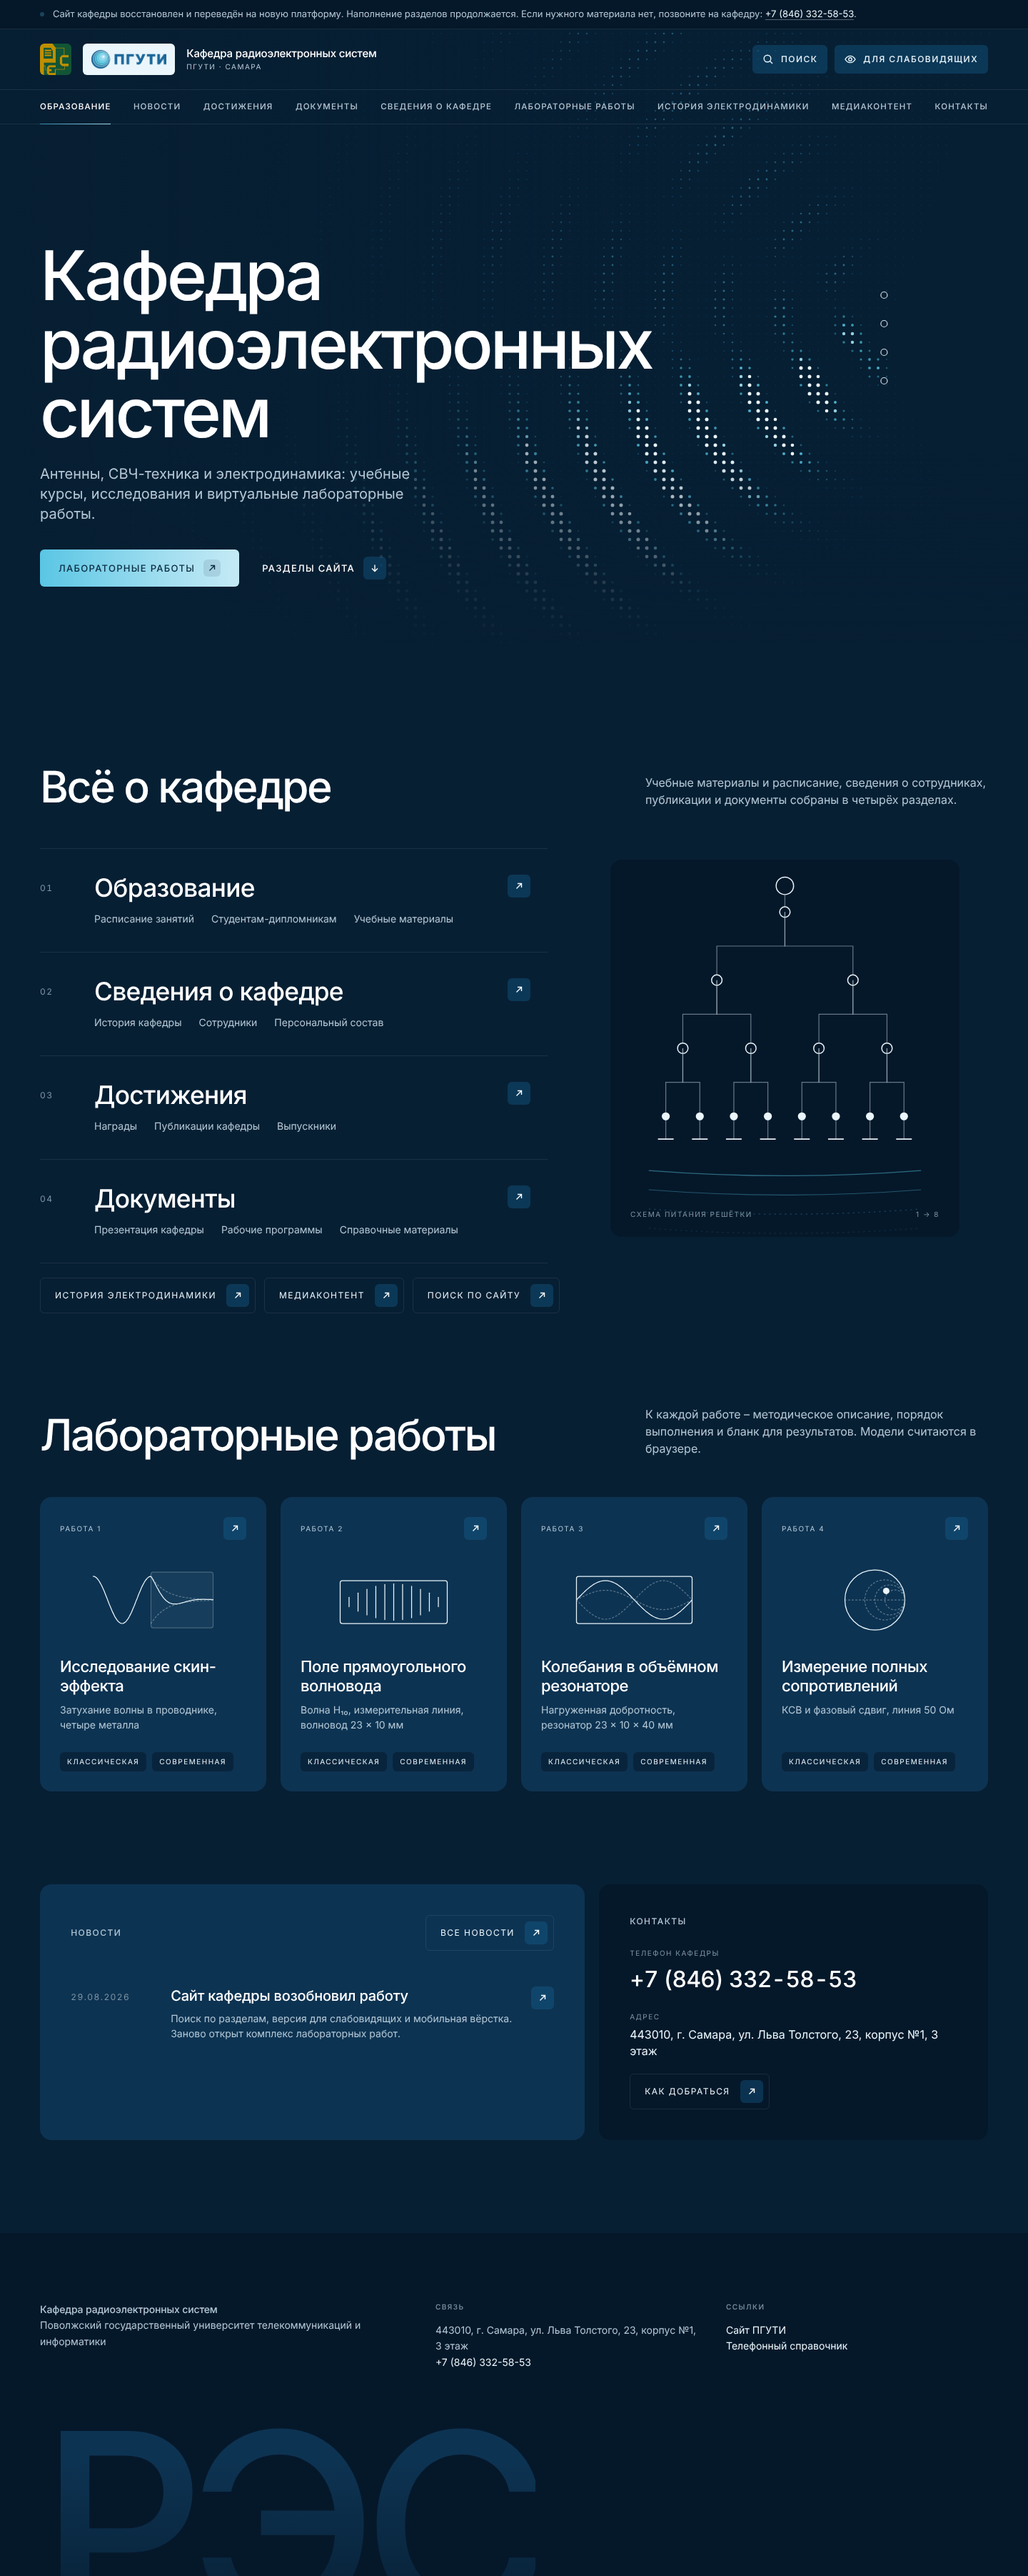
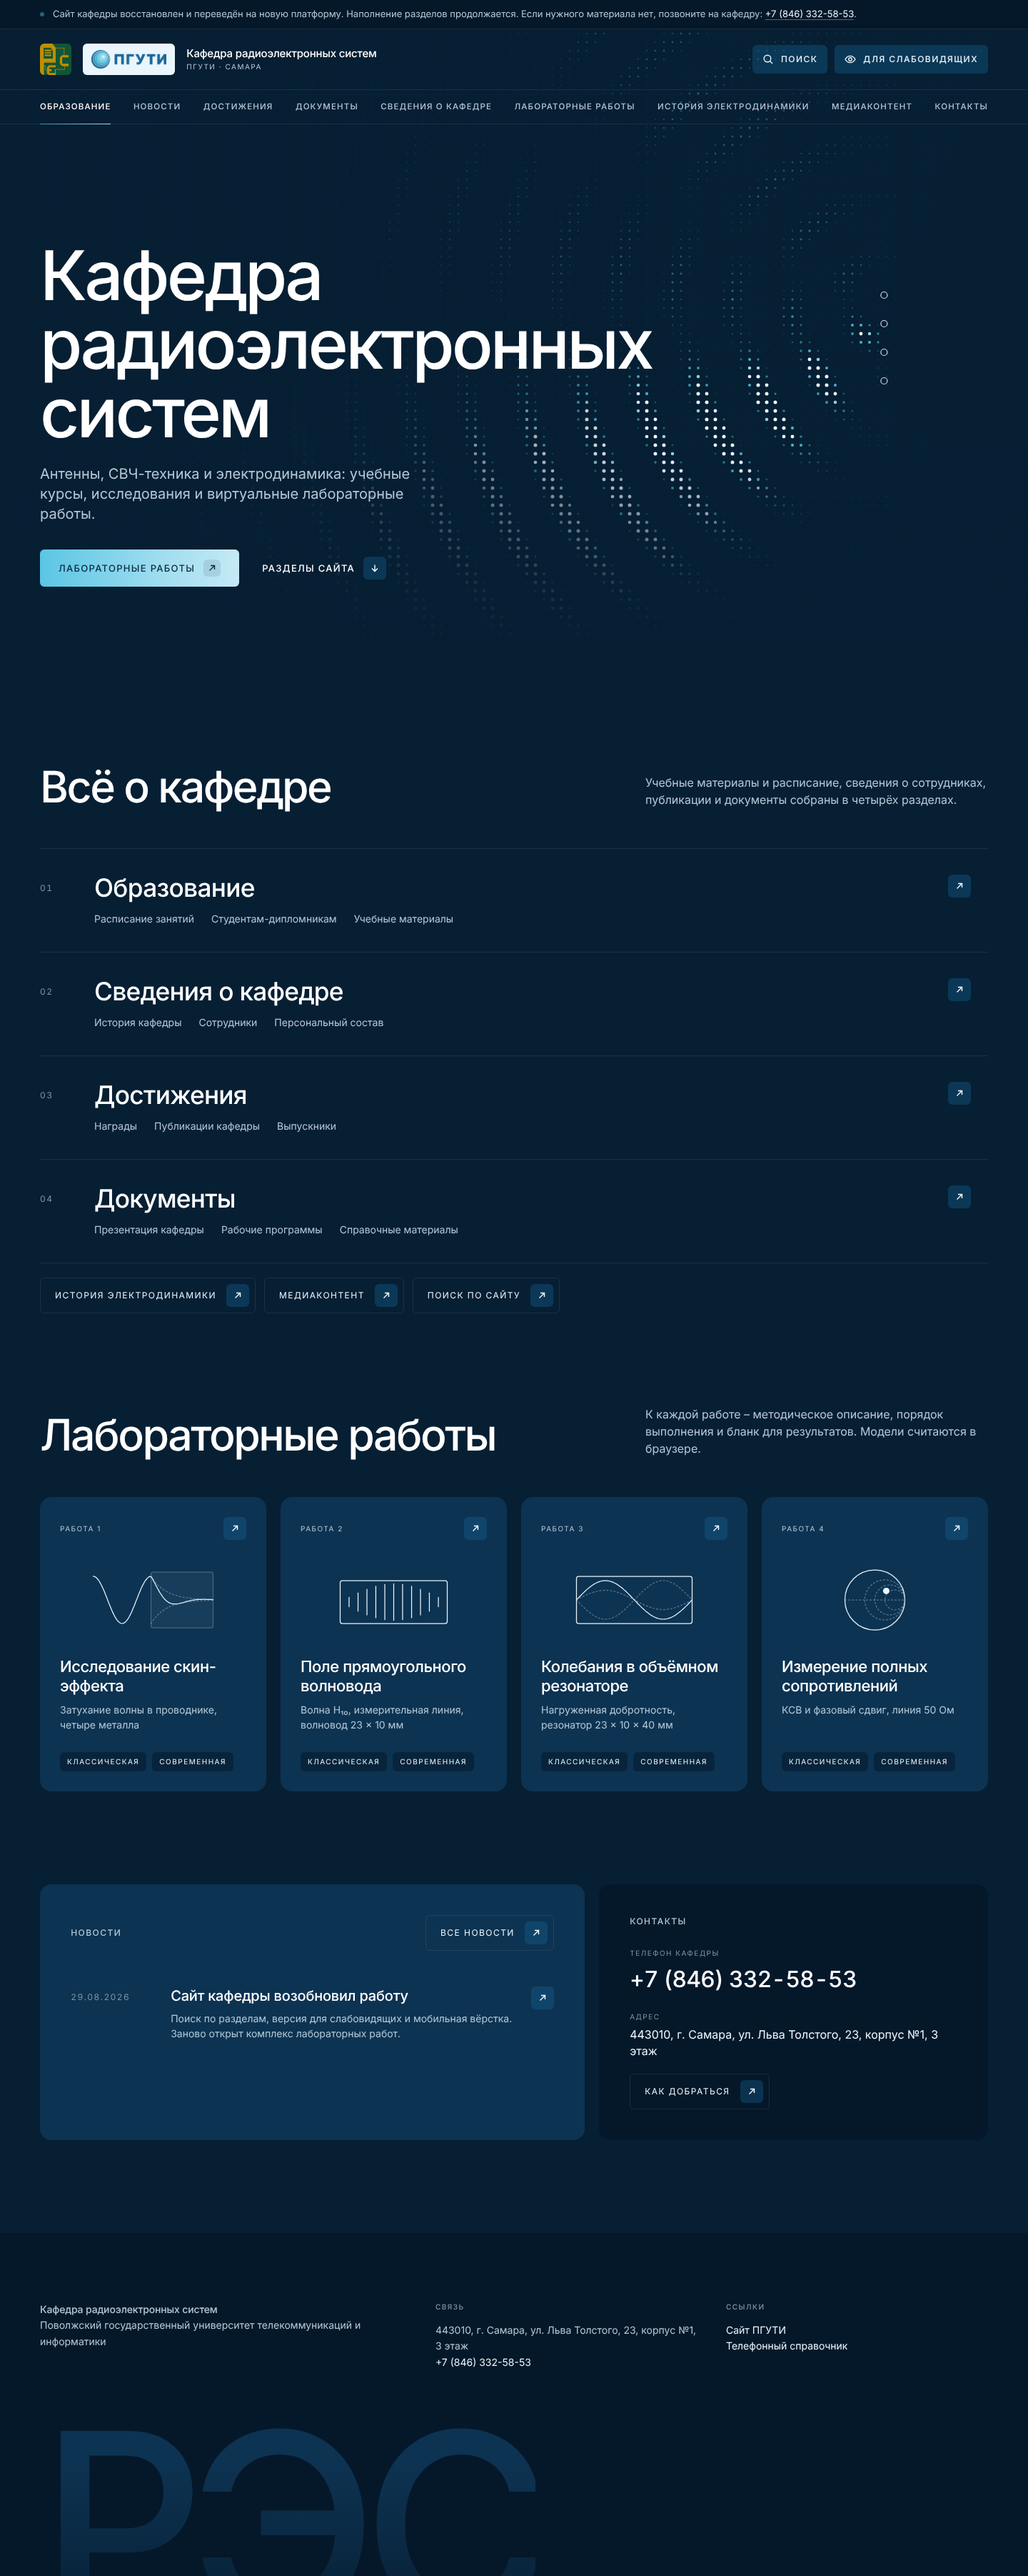
Макет главной: убрана схема питания решётки
Claude-Session: https://claude.ai/code/session_01Y5a5f6xMeDjfuauD7HAxLL

diff --git a/design/maket-glavnoj.html b/design/maket-glavnoj.html
@@ -155,8 +155,7 @@ p { margin: 0; }
 .section__lead { max-width: 480px; justify-self: end; color: var(--silver); font-size: 16px; line-height: 1.5; }
 
 
-/* разделы: строки + схема */
-.explore { display: grid; grid-template-columns: minmax(0, 1.25fr) minmax(0, 1fr); gap: 48px; align-items: start; }
+/* разделы */
 .rows { list-style: none; margin: 0; padding: 0; border-top: 1px solid var(--line); }
 .row { border-bottom: 1px solid var(--line); }
 .row a {
@@ -170,10 +169,6 @@ p { margin: 0; }
 .row__title { font-size: clamp(24px, 1.2vw + 18px, 36px); line-height: 1.1; letter-spacing: -.02em; color: var(--white); font-weight: 500; }
 .row__sub { margin-top: 12px; display: flex; flex-wrap: wrap; gap: 6px 24px; font-size: 14px; color: var(--silver); }
 
-.schema { position: sticky; top: 32px; aspect-ratio: 1 / 1.08; border-radius: var(--r-card); background: var(--deep); overflow: hidden; }
-.schema svg { width: 100%; height: 100%; }
-.schema__cap { position: absolute; left: 28px; bottom: 24px; right: 28px; display: flex; justify-content: space-between; gap: 12px;
-  font-size: 10px; letter-spacing: .15em; text-transform: uppercase; color: var(--slate); }
 
 /* лабораторные работы */
 .labs { display: grid; grid-template-columns: repeat(4, minmax(0, 1fr)); gap: 20px; list-style: none; margin: 0; padding: 0; }
@@ -254,9 +249,8 @@ p { margin: 0; }
   .tool--a11y span { display: none; }
   .tool--a11y { width: 40px; padding: 0; justify-content: center; }
   .brand__psuti { display: none; }
-  .explore, .split, .section__head { grid-template-columns: 1fr; }
+  .split, .section__head { grid-template-columns: 1fr; }
   .section__lead { justify-self: start; }
-  .schema { position: relative; top: 0; aspect-ratio: 16 / 11; }
 
   .footer__grid { grid-template-columns: 1fr 1fr; }
   .footer__grid > :first-child { grid-column: 1 / -1; }
@@ -365,8 +359,7 @@ p { margin: 0; }
       <p class="section__lead">Учебные материалы и расписание, сведения о сотрудниках, публикации и документы — в четырёх основных разделах.</p>
     </div>
 
-    <div class="explore">
-      <ul class="rows">
+          <ul class="rows">
         <li class="row"><a href="#">
           <span class="row__n">01</span>
           <span><span class="row__title">Образование</span>
@@ -392,12 +385,6 @@ p { margin: 0; }
           <span class="arrow" aria-hidden="true"><svg viewBox="0 0 14 14" fill="none" stroke="currentColor" stroke-width="1.4"><path d="M3.5 10.5 10.5 3.5M5 3.5h5.5V9"/></svg></span>
         </a></li>
       </ul>
-
-      <figure class="schema" aria-hidden="true">
-        <svg viewBox="0 0 400 432" id="schema"></svg>
-        <figcaption class="schema__cap"><span>Схема питания решётки</span><span>1 → 8</span></figcaption>
-      </figure>
-    </div>
 
     <div class="more">
       <a class="chip" href="#">История электродинамики <span class="arrow" aria-hidden="true"><svg viewBox="0 0 14 14" fill="none" stroke="currentColor" stroke-width="1.4"><path d="M3.5 10.5 10.5 3.5M5 3.5h5.5V9"/></svg></span></a>
@@ -514,38 +501,6 @@ p { margin: 0; }
   });
 })();
 
-/* ---------- схема питания решётки (делитель 1 → 8) ---------- */
-(function () {
-  var svg = document.getElementById("schema"), NS = "http://www.w3.org/2000/svg", out = [];
-  function el(name, attrs) { var e = document.createElementNS(NS, name); for (var k in attrs) e.setAttribute(k, attrs[k]); svg.appendChild(e); return e; }
-  var line = { stroke: "#b3c8d6", "stroke-width": 1, fill: "none", opacity: .55 };
-  var y0 = 60, levels = [1, 2, 4, 8], dy = 78, W = 400, pad = 44;
-  var prev = [W / 2];
-  el("circle", { cx: W / 2, cy: 30, r: 10, fill: "none", stroke: "#eaf6fb", "stroke-width": 1.2 });
-  el("line", Object.assign({ x1: W / 2, y1: 40, x2: W / 2, y2: y0 }, line));
-  levels.forEach(function (n, li) {
-    var y = y0 + li * dy, xs = [];
-    for (var i = 0; i < n; i++) xs.push(pad + (W - 2 * pad) * (i + .5) / n);
-    if (li > 0) xs.forEach(function (x, i) {
-      var px = prev[Math.floor(i / 2)], py = y - dy;
-      el("path", Object.assign({ d: "M" + px + " " + py + " V" + (py + dy / 2) + " H" + x + " V" + y }, line));
-    });
-    xs.forEach(function (x) {
-      el("circle", { cx: x, cy: y, r: li === 3 ? 4 : 6, fill: li === 3 ? "#eaf6fb" : "#05182a", stroke: "#eaf6fb", "stroke-width": 1.2 });
-    });
-    prev = xs;
-  });
-  // излучатели и фронт волны
-  var yE = y0 + 3 * dy;
-  prev.forEach(function (x) {
-    el("line", Object.assign({ x1: x, y1: yE + 4, x2: x, y2: yE + 26 }, line));
-    el("line", { x1: x - 9, y1: yE + 26, x2: x + 9, y2: yE + 26, stroke: "#eaf6fb", "stroke-width": 1.4 });
-  });
-  for (var k = 1; k <= 4; k++) {
-    out.push(el("path", { d: "M" + pad + " " + (yE + 40 + k * 22) + " Q" + W / 2 + " " + (yE + 52 + k * 22) + " " + (W - pad) + " " + (yE + 40 + k * 22),
-      fill: "none", stroke: "#5ac6e4", "stroke-width": 1, opacity: (0.6 - k * 0.12).toFixed(2), "stroke-dasharray": k > 2 ? "2 4" : "none" }));
-  }
-})();
 
 /* ---------- фон первого экрана: поле фазированной решётки ----------
    Четыре излучателя с шагом λ/2. Фазовый сдвиг между соседними медленно

diff --git a/design/maket-glavnoj.clean.html b/design/maket-glavnoj.clean.html
@@ -155,8 +155,7 @@ p { margin: 0; }
 .section__lead { max-width: 480px; justify-self: end; color: var(--silver); font-size: 16px; line-height: 1.5; }
 
 
-/* разделы: строки + схема */
-.explore { display: grid; grid-template-columns: minmax(0, 1.25fr) minmax(0, 1fr); gap: 48px; align-items: start; }
+/* разделы */
 .rows { list-style: none; margin: 0; padding: 0; border-top: 1px solid var(--line); }
 .row { border-bottom: 1px solid var(--line); }
 .row a {
@@ -170,10 +169,6 @@ p { margin: 0; }
 .row__title { font-size: clamp(24px, 1.2vw + 18px, 36px); line-height: 1.1; letter-spacing: -.02em; color: var(--white); font-weight: 500; }
 .row__sub { margin-top: 12px; display: flex; flex-wrap: wrap; gap: 6px 24px; font-size: 14px; color: var(--silver); }
 
-.schema { position: sticky; top: 32px; aspect-ratio: 1 / 1.08; border-radius: var(--r-card); background: var(--deep); overflow: hidden; }
-.schema svg { width: 100%; height: 100%; }
-.schema__cap { position: absolute; left: 28px; bottom: 24px; right: 28px; display: flex; justify-content: space-between; gap: 12px;
-  font-size: 10px; letter-spacing: .15em; text-transform: uppercase; color: var(--slate); }
 
 /* лабораторные работы */
 .labs { display: grid; grid-template-columns: repeat(4, minmax(0, 1fr)); gap: 20px; list-style: none; margin: 0; padding: 0; }
@@ -254,9 +249,8 @@ p { margin: 0; }
   .tool--a11y span { display: none; }
   .tool--a11y { width: 40px; padding: 0; justify-content: center; }
   .brand__psuti { display: none; }
-  .explore, .split, .section__head { grid-template-columns: 1fr; }
+  .split, .section__head { grid-template-columns: 1fr; }
   .section__lead { justify-self: start; }
-  .schema { position: relative; top: 0; aspect-ratio: 16 / 11; }
 
   .footer__grid { grid-template-columns: 1fr 1fr; }
   .footer__grid > :first-child { grid-column: 1 / -1; }
@@ -365,8 +359,7 @@ p { margin: 0; }
       <p class="section__lead">Учебные материалы и расписание, сведения о сотрудниках, публикации и документы собраны в четырёх разделах.</p>
     </div>
 
-    <div class="explore">
-      <ul class="rows">
+          <ul class="rows">
         <li class="row"><a href="#">
           <span class="row__n">01</span>
           <span><span class="row__title">Образование</span>
@@ -392,12 +385,6 @@ p { margin: 0; }
           <span class="arrow" aria-hidden="true"><svg viewBox="0 0 14 14" fill="none" stroke="currentColor" stroke-width="1.4"><path d="M3.5 10.5 10.5 3.5M5 3.5h5.5V9"/></svg></span>
         </a></li>
       </ul>
-
-      <figure class="schema" aria-hidden="true">
-        <svg viewBox="0 0 400 432" id="schema"></svg>
-        <figcaption class="schema__cap"><span>Схема питания решётки</span><span>1 → 8</span></figcaption>
-      </figure>
-    </div>
 
     <div class="more">
       <a class="chip" href="#">История электродинамики <span class="arrow" aria-hidden="true"><svg viewBox="0 0 14 14" fill="none" stroke="currentColor" stroke-width="1.4"><path d="M3.5 10.5 10.5 3.5M5 3.5h5.5V9"/></svg></span></a>
@@ -514,38 +501,6 @@ p { margin: 0; }
   });
 })();
 
-/* схема питания решётки (делитель 1 → 8) */
-(function () {
-  var svg = document.getElementById("schema"), NS = "http://www.w3.org/2000/svg", out = [];
-  function el(name, attrs) { var e = document.createElementNS(NS, name); for (var k in attrs) e.setAttribute(k, attrs[k]); svg.appendChild(e); return e; }
-  var line = { stroke: "#b3c8d6", "stroke-width": 1, fill: "none", opacity: .55 };
-  var y0 = 60, levels = [1, 2, 4, 8], dy = 78, W = 400, pad = 44;
-  var prev = [W / 2];
-  el("circle", { cx: W / 2, cy: 30, r: 10, fill: "none", stroke: "#eaf6fb", "stroke-width": 1.2 });
-  el("line", Object.assign({ x1: W / 2, y1: 40, x2: W / 2, y2: y0 }, line));
-  levels.forEach(function (n, li) {
-    var y = y0 + li * dy, xs = [];
-    for (var i = 0; i < n; i++) xs.push(pad + (W - 2 * pad) * (i + .5) / n);
-    if (li > 0) xs.forEach(function (x, i) {
-      var px = prev[Math.floor(i / 2)], py = y - dy;
-      el("path", Object.assign({ d: "M" + px + " " + py + " V" + (py + dy / 2) + " H" + x + " V" + y }, line));
-    });
-    xs.forEach(function (x) {
-      el("circle", { cx: x, cy: y, r: li === 3 ? 4 : 6, fill: li === 3 ? "#eaf6fb" : "#05182a", stroke: "#eaf6fb", "stroke-width": 1.2 });
-    });
-    prev = xs;
-  });
-  // излучатели и фронт волны
-  var yE = y0 + 3 * dy;
-  prev.forEach(function (x) {
-    el("line", Object.assign({ x1: x, y1: yE + 4, x2: x, y2: yE + 26 }, line));
-    el("line", { x1: x - 9, y1: yE + 26, x2: x + 9, y2: yE + 26, stroke: "#eaf6fb", "stroke-width": 1.4 });
-  });
-  for (var k = 1; k <= 4; k++) {
-    out.push(el("path", { d: "M" + pad + " " + (yE + 40 + k * 22) + " Q" + W / 2 + " " + (yE + 52 + k * 22) + " " + (W - pad) + " " + (yE + 40 + k * 22),
-      fill: "none", stroke: "#5ac6e4", "stroke-width": 1, opacity: (0.6 - k * 0.12).toFixed(2), "stroke-dasharray": k > 2 ? "2 4" : "none" }));
-  }
-})();
 
 /* Фон первого экрана: поле фазированной решётки.
    Четыре излучателя с шагом λ/2. Фазовый сдвиг между соседними медленно
